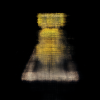
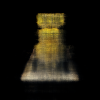
Project 7

Changed region(s): [[0.18, 0.12, 0.81, 0.84], [0.3, 0.54, 0.39, 0.6], [0.69, 0.48, 0.72, 0.51]]

diff --git a/computer-Vision/Project_7_3D_Computer_Vision/nerf/visualize.py b/computer-Vision/Project_7_3D_Computer_Vision/nerf/visualize.py
@@ -28,27 +28,39 @@ def render_image(model, H, W, focal, c2w, device):
 
     return rgb.detach().cpu().numpy()
 
-def create_orbit_poses(radius=2.0, elevation=0.3, n_frames=60):
+def create_orbit_poses(radius=3.5, elevation=0.3, roll_angle_deg=0.0, n_frames=60):
     poses = []
+    roll_rad = np.radians(roll_angle_deg)
 
     for t in range(n_frames):
         angle = 2 * np.pi * t / n_frames
 
-        # Calculate camera position on a sphere (adding slight elevation often looks better)
+        # CHANGED: Swap axes so the orbit circles horizontally (left to right)
         cam_x = radius * np.cos(angle)
-        cam_z = radius * np.sin(angle)
-        cam_y = elevation  # Keeps the camera slightly raised looking down
+        cam_y = radius * np.sin(angle)
+        cam_z = elevation  # Constant height, looking slightly down if positive
 
         camera_position = np.array([cam_x, cam_y, cam_z])
         target_position = np.array([0.0, 0.0, 0.0]) # Looking at origin
-        up_vector = np.array([0.0, 1.0, 0.0]) # Standard OpenGL up-vector
 
-        # Compute Look-At Rotation Matrix
-        # Note: Depending on your generate_rays convention (OpenGL vs. COLMAP), 
-        # you might need to flip signs for forward/right vectors.
+        # Compute standard forward vector pointing at the origin
         forward = target_position - camera_position
         forward = forward / np.linalg.norm(forward)
 
+        # Base world up-vector (If Z is up, your base up vector should be [0, 0, 1])
+        base_up = np.array([0.0, 0.0, 1.0])
+
+        # Find a temporary right vector to help us compute a rolled up-vector
+        temp_right = np.cross(base_up, forward)
+        temp_right = temp_right / np.linalg.norm(temp_right)
+        
+        # Re-compute true world up for this position
+        true_up = np.cross(forward, temp_right)
+
+        # Tilt the up_vector on its side by blending the true_up and temp_right
+        up_vector = true_up * np.cos(roll_rad) + temp_right * np.sin(roll_rad)
+
+        # Recompute final camera coordinates with the new tilted up_vector
         right = np.cross(up_vector, forward)
         right = right / np.linalg.norm(right)
 
@@ -59,7 +71,7 @@ def create_orbit_poses(radius=2.0, elevation=0.3, n_frames=60):
         c2w = np.eye(4)
         c2w[0:3, 0] = right
         c2w[0:3, 1] = up
-        c2w[0:3, 2] = -forward  # NeRF/OpenGL convention: camera looks down -Z
+        c2w[0:3, 2] = -forward  
         c2w[0:3, 3] = camera_position
 
         poses.append(torch.tensor(c2w, dtype=torch.float32))

diff --git a/computer-Vision/Project_7_3D_Computer_Vision/nerf/train.py b/computer-Vision/Project_7_3D_Computer_Vision/nerf/train.py
@@ -37,7 +37,7 @@ optimizer = torch.optim.Adam(model.parameters(), lr=5e-4)
 # ======================
 # Training loop
 # ======================
-for step in range(20000):
+for step in range(100_000):
 
     idx = torch.randint(0, images.shape[0], (1,)).item()
 
